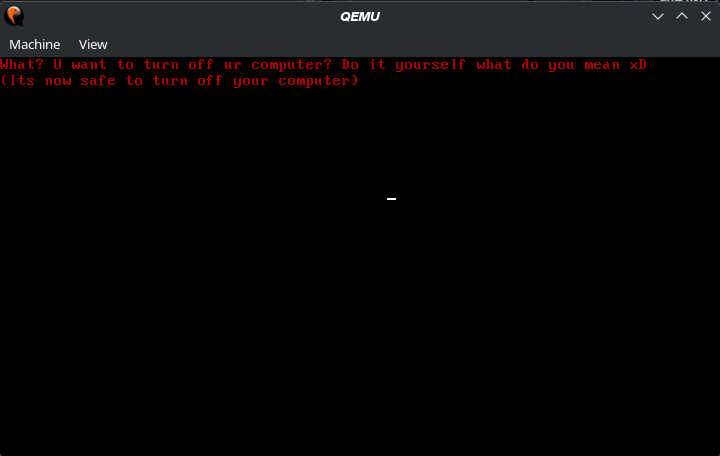
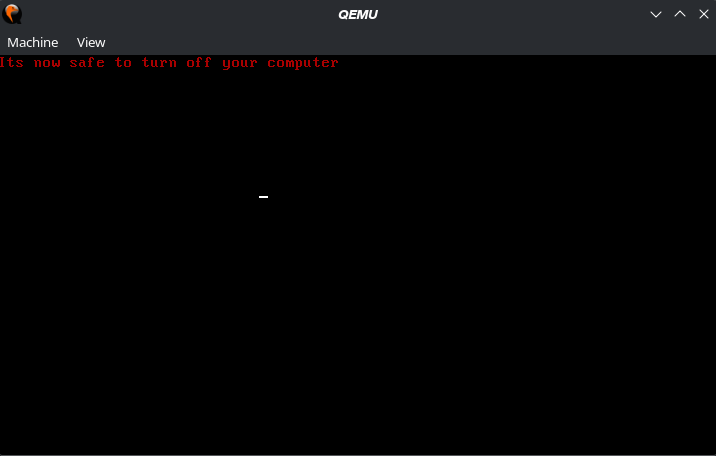
Better ATA enum & updated pictures

diff --git a/90HzOS/prog/src/shell.c b/90HzOS/prog/src/shell.c
@@ -402,7 +402,7 @@ char** lside(){
         printf("No IDE Controllers attached to this machine.\n");
         return ret;
     }
-
+    printf("\033\16Attached ATA Devices:\n\033\x0F");
     u8* Controllers;
     struct ATA_BARs REGS;
     Controllers = GetATA_PCI_Controller();
@@ -412,11 +412,17 @@ char** lside(){
     for (u8 j = 0; *(Controllers+1+j) != 0xFF; j+=3){
         ++Controller_count;
     }
+    if (Controller_count > 1) printf("\xC7");
+    else printf("\xC8");
+    
 
     u8 Disk = 0;
     char Out[512];
     u8 Drive_type = 0;
-    for (u8 i = 0; i != Controller_count; ++i){  
+    u8 Disk_nbr = 0;
+    u16 Old_pos = 0;
+    for (u8 i = 0; i != Controller_count; ++i){
+        printf("\033\4Controller #%u\033\x0F\n", (u32)i);
 
         REGS = Get_ATA_BARs(Controllers+i*3, Controllers+i*3+1, Controllers+i*3+2, i);
 
@@ -444,9 +450,18 @@ char** lside(){
             if (Drive_type == 0 || Drive_type == 3){
                 continue;
             }
-            if (Drive_type == 2){
-                printf("\033\x01SATA Device:\033\x0F");
+            ++Disk_nbr;
+            printf("\t\xC8\033\1Disk #%u\033\x0F\n\t\t\xC7", (u32)j);
+            Old_pos = position;
+            position -= 405;
+            if (Disk_nbr > 1){
+                for (u8 k = 0; k != 4; ++k){
+                    if (!k) print_char('\xC7', 0x0F, &position);
+                    else print_char('\xBA', 0x0F, &position);
+                    position += 79;
+                }
             }
+            position = Old_pos;
             *(Out + 39) = 0;
             *(Out + 53) = 0;
             *(Out + 93) = 0;
@@ -468,7 +483,7 @@ char** lside(){
                 ((u32)(u8)*(Out + 120) << 8)  | 
                 (u32)(u8)*(Out + 121);
 
-            printf("LBA28 SECTORS: %u\nLBA: ", sectors);
+            printf("\t\t\xC7LBA28 SECTORS: %u\n\t\t\xC8LBA: ", sectors);
 
             if ((Out[98] & 0x02) != 0){
                 printf("SUPPORTED\n");

diff --git a/90HzOS/kernel/src/include/vga/stdio.h b/90HzOS/kernel/src/include/vga/stdio.h
@@ -11,7 +11,7 @@
     void print_hex(const unsigned int* ptr, volatile unsigned int* position);
     void change_color(const char color, volatile unsigned int *position);
     void move_grid(unsigned int count);
-    void print_char(volatile const char displayed_char, const char attributes, volatile unsigned int *position);
+    void print_char(volatile const unsigned char displayed_char, const char attributes, volatile unsigned int *position);
     void print_string(volatile const char* string, const char attributes, volatile unsigned int* position);
     void set_BGcolor(const char color);
 

diff --git a/90HzOS/kernel/src/vga/stdio.c b/90HzOS/kernel/src/vga/stdio.c
@@ -36,7 +36,7 @@
         }
     }
 
-    void print_char(volatile const char displayed_char, const char attributes, volatile unsigned int *position){
+    void print_char(volatile const unsigned char displayed_char, const char attributes, volatile unsigned int *position){
         extern volatile unsigned int Times_Grid_moved;
         if (*position-(Times_Grid_moved*80) >= (80*25-1)){
             move_grid(1);

diff --git a/90HzOS/kernel/src/drivers/ATA/atapio.c b/90HzOS/kernel/src/drivers/ATA/atapio.c
@@ -192,7 +192,6 @@ char IdentifyATADrive(struct ATA_BARs ATARegs, u8 DriveIdx, char* Output){
         }
         u8 LBA_mid = inb(ComPort+4); u8 LBA_high = inb(ComPort+5);
         if (LBA_mid || LBA_high){
-            printf("mid=%h, high=%h", LBA_mid, LBA_high);
             if (LBA_mid == 0x3C && LBA_high == 0xC3){
                 ret = 2;
                 goto DEBUG_READ;
